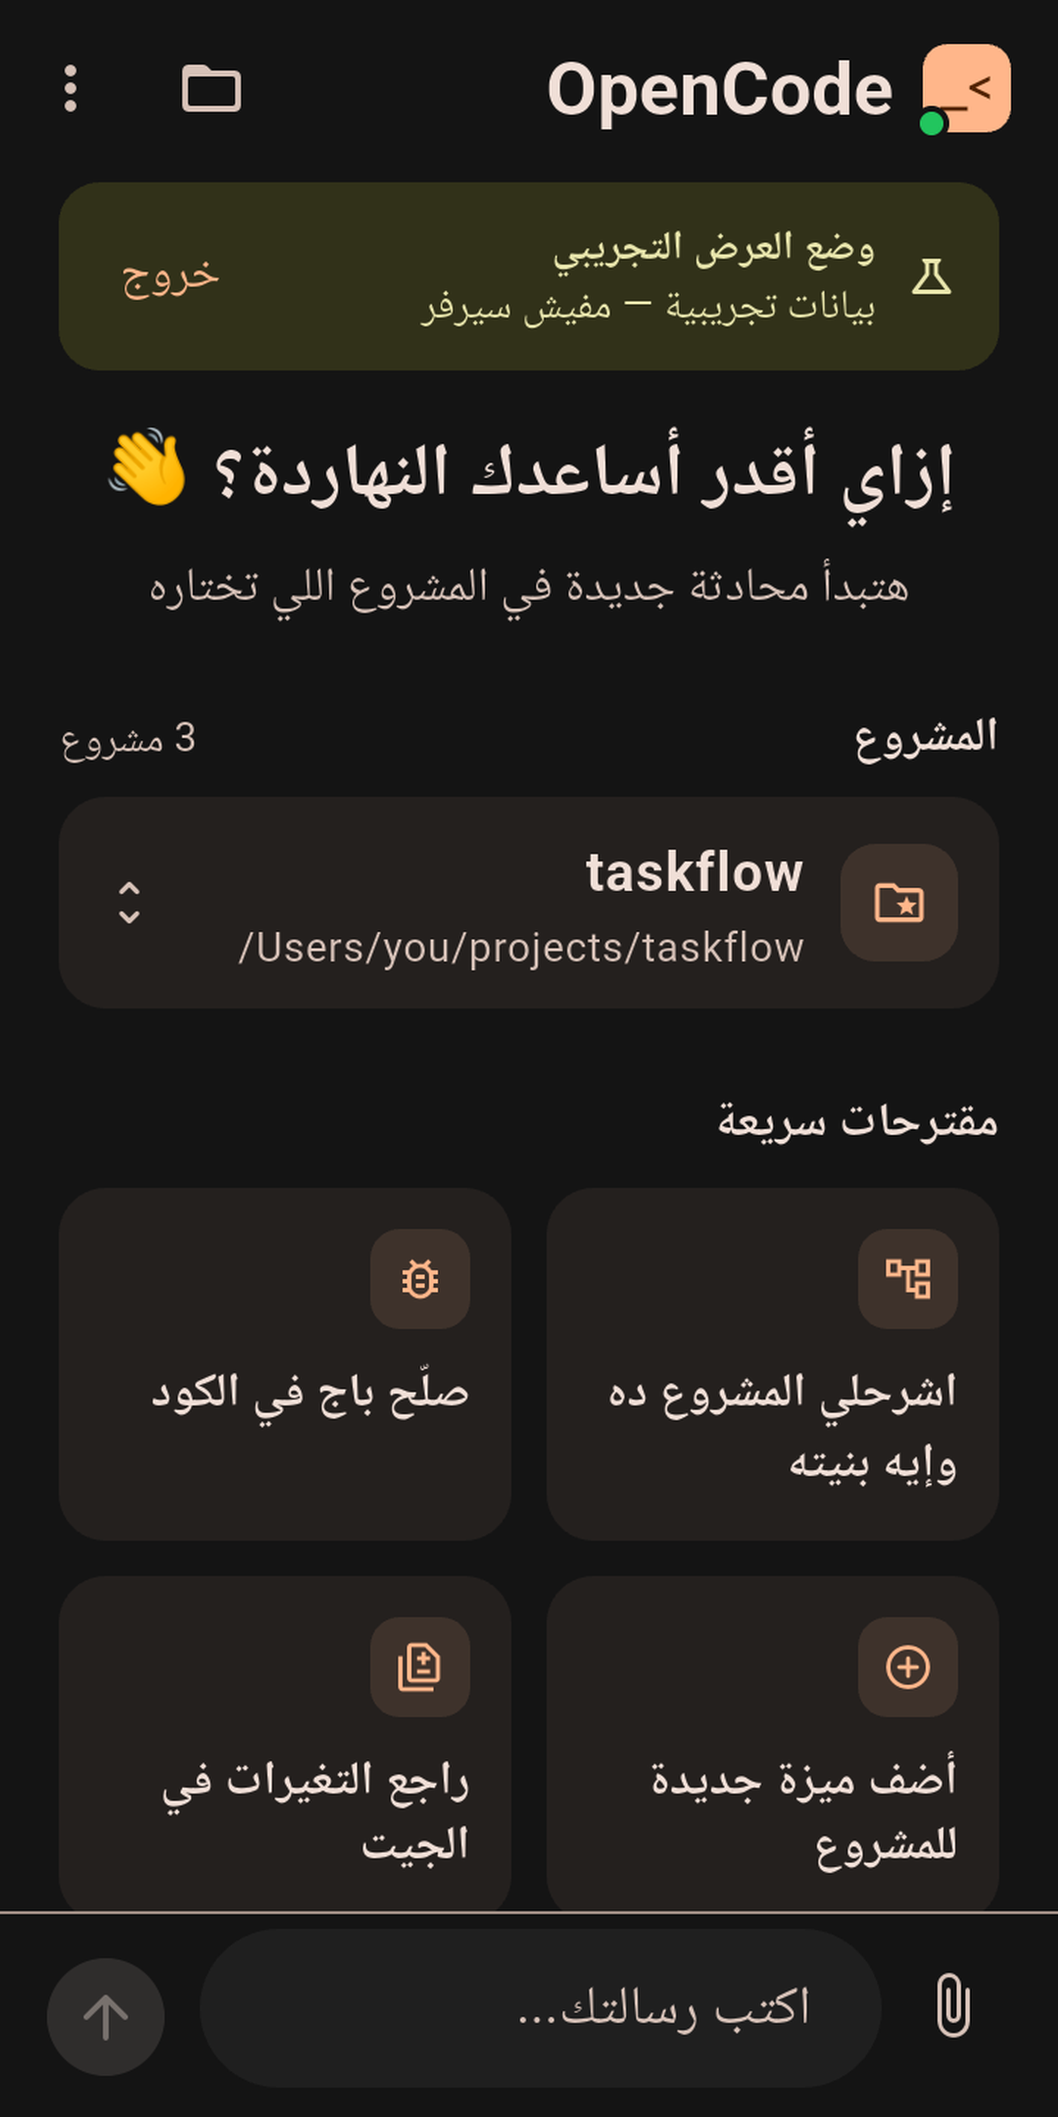
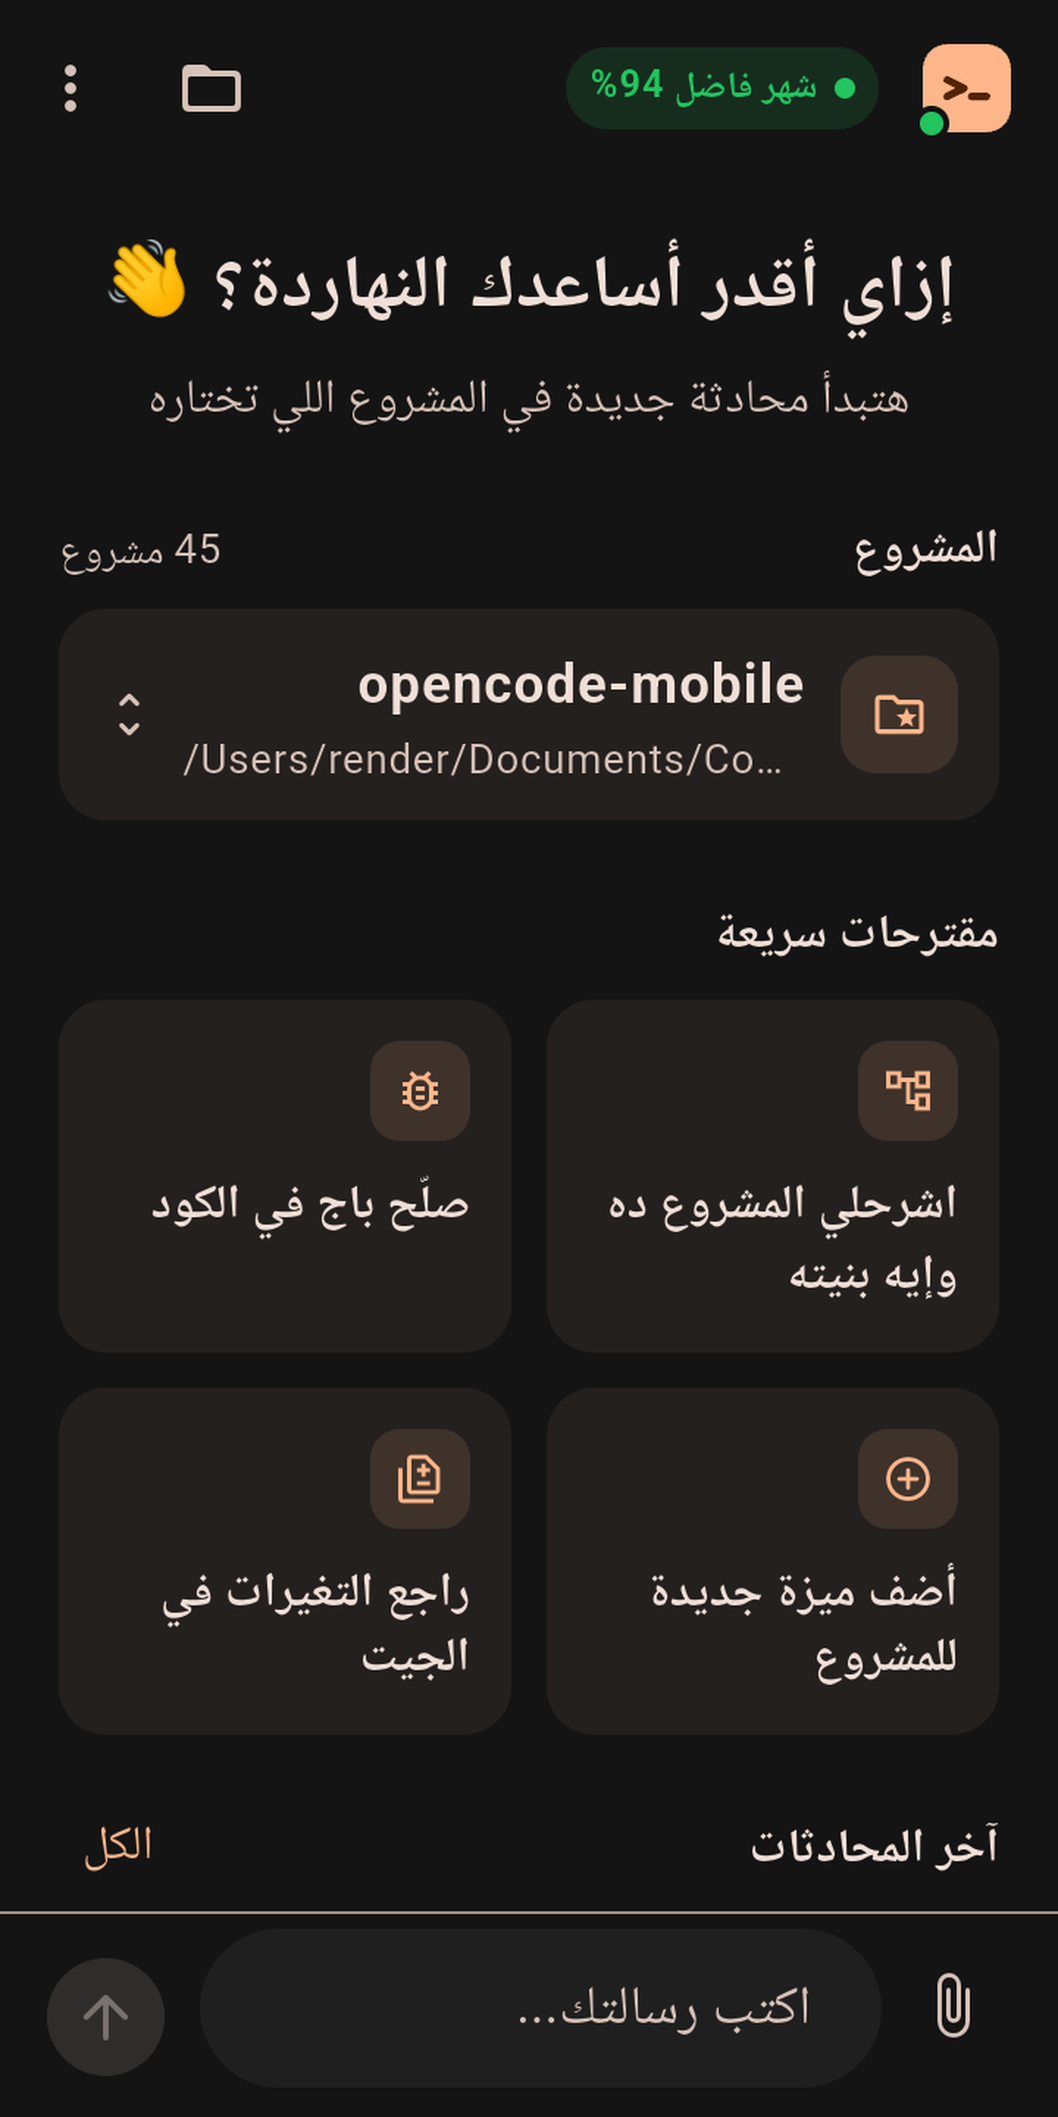
Store pack: listing copy, privacy policy, Play-ready screenshots
- docs/store-listing.md: title/short/long copy (AR+EN), category and contact
  details, plus the exact answers for App access, Data safety, content rating
  and the Android 14 foreground-service declaration.
- docs/privacy-policy.md: a policy that matches what the app actually does
  (local-only data, the optional opencode.ai quota call).
- store/screenshots: four 1080x2160 phone screenshots captured from the device
  (home with the quota chip, a live chat with tool cards, the quota/usage sheet,
  the pairing screen).

diff --git a/docs/store-listing.md b/docs/store-listing.md
@@ -1,0 +1,181 @@
+# بيانات المتجر — انسخ والصق
+
+كل النصوص دي جاهزة للصق في Google Play Console مباشرة. القيم اللي بين ⬅ تتغير.
+
+---
+
+## 1. اسم التطبيق (30 حرف كحد أقصى)
+
+```
+OpenCode Mobile
+```
+
+بدائل لو مش متاح: `OpenCode Mobile — unofficial` · `OpenCode for Mobile`
+
+## 2. الوصف القصير (80 حرف كحد أقصى)
+
+**عربي:**
+```
+عميل غير رسمي لسيرفر OpenCode: محادثاتك وردود الوكيل لحظيًا من موبايلك
+```
+(69 حرف)
+
+**English:**
+```
+Unofficial OpenCode client — your sessions and agent replies, live
+```
+(65 chars)
+
+## 3. الوصف الكامل (4000 حرف كحد أقصى)
+
+**عربي:**
+```
+OpenCode Mobile تطبيق غير رسمي بيوصّلك بسيرفر OpenCode اللي على جهازك، فتقدر
+تتابع شغل الوكيل من على تليفونك — بنفس الجلسات والردود اللي بتشوفها على الكمبيوتر.
+
+■ بيشتغل إزاي؟
+• سيرفر OpenCode بيشتغل على جهازك (ماك/لينكس/ويندوز) وبيعرّض API + أحداث لحظية.
+• من التطبيق: امسح كود QR واحد (`opencode pair`) وخلاص — مفيش حسابات ولا تسجيل.
+• بعد كده كل حاجة لحظية زي تطبيقات المحادثة: الرد بيتكتب كلمة كلمة، والتفكير
+  والأدوات بتظهر وانت شايف.
+
+■ المميزات
+• محادثاتك كلها (sessions) بعناوينها وتكلفتها والموديل المستخدم.
+• ردود متدفقة لحظيًا + التفكير قابل للطي.
+• كروت لكل أداة (read / edit / shell / browser…) بإدخالها ونتيجتها.
+• موافقة الصلاحيات من الموبايل: مرة / دايمًا / رفض.
+• إيقاف التنفيذ في أي لحظة، وإنشاء جلسة جديدة في أي مشروع.
+• اختيار الموديل والمشاريع، ومراجعة كل المحادثات بالمشاريع.
+• إشعارات في الخلفية لما الوكيل يطلب صلاحية أو يخلّص تنفيذ.
+• قياس الكوتة الشهرية (لخطط OpenCode Go): فاضل كام في الشهر/الأسبوع/آخر 5 ساعات.
+• استهلاكك المحلي: التكلفة والتوكنز.
+• وضع العرض: تجربة التطبيق بدون أي سيرفر (بيانات تجريبية).
+
+■ ملاحظات مهمة
+• التطبيق مش بيشغّل موديلات على الموبايل — هو واجهة لسيرفرك اللي على جهازك.
+• محتاج الكمبيوتر والموبايل على نفس الشبكة، أو Tailscale للاتصال من بره.
+• مشروع مجتمعي غير رسمي، مش مبني من فريق OpenCode وغير تابع لهم بأي شكل.
+  OpenCode نفسه مفتوح المصدر (MIT).
+
+■ الخصوصية
+مفيش حسابات ولا تتبّع ولا إعلانات. بياناتك بتفضل عندك: الردود والمحادثات على
+سيرفرك انت، والتطبيق بيخزّن على الجهاز عنوان السيرفر والتوكن (مشفّر) فقط.
+```
+
+**English:**
+```
+OpenCode Mobile is an unofficial client for the OpenCode server running on
+your own computer — so you can follow your agent from your phone, with the
+same sessions and replies you see on your desktop.
+
+■ HOW IT WORKS
+• OpenCode runs on your machine (macOS/Linux/Windows) and exposes an HTTP API
+  plus a live event stream.
+• In the app: scan one QR code from `opencode pair` — no account, no sign-up.
+• After that everything is live like a chat app: replies stream word by word,
+  with reasoning and tool calls shown as they happen.
+
+■ FEATURES
+• All your sessions with titles, cost and model.
+• Live streaming replies, collapsible reasoning.
+• A card per tool call (read / edit / shell / browser…) with input and output.
+• Approve permissions from your phone: once / always / reject.
+• Interrupt a run, start a new session in any project.
+• Model picker, project switcher, full history grouped by project.
+• Background notifications when the agent asks for permission or finishes.
+• Plan quota meter (OpenCode Go): what is left this month / week / 5 hours.
+• Local spend: cost and tokens.
+• Demo mode: try the app with sample data — no server needed.
+
+■ GOOD TO KNOW
+• The app does not run models on the phone; it drives the server on your own
+  machine.
+• Your computer and phone usually need the same network (Tailscale works from
+  anywhere).
+• Unofficial community project — not built by, or affiliated with, the
+  OpenCode team. OpenCode itself is open source (MIT).
+
+■ PRIVACY
+No accounts, no tracking, no ads. Your data stays with you: conversations live
+on your own server, and the app stores only the server address and its pairing
+token (encrypted) on the device.
+```
+
+## 4. تصنيف ومعلومات أساسية
+
+| الحقل | القيمة |
+|---|---|
+| الفئة | `Developer tools` |
+| وسوم | `developer tools` · `productivity` |
+| البريد الإلكتروني | ⬅ `support@globalweb.solutions` (أو إيميلك) |
+| الموقع | `https://Globalweb.Solutions` |
+| سياسة الخصوصية | ⬅ `https://Globalweb.Solutions/privacy` (استخدم `docs/privacy-policy.md`) |
+| إعلانات | **لا** |
+| مشتريات داخل التطبيق | **لا** |
+| مجاني / مدفوع | **مجاني** |
+| الجمهور المستهدف | 18+ (أداة مطوّرين) |
+| التطبيق يحتوي على محتوى مخصّص للأطفال؟ | لا |
+
+## 5. App access (مهم — بيتوقف عليها القبول)
+
+اختار **"All functionality is available without special access"** واكتب في
+الملاحظات (Review instructions):
+
+```
+The app is a client for an OpenCode server that normally runs on the
+reviewer's own computer. No server is required to review it:
+
+1. Install and open the app.
+2. On the pairing screen tap "جرّب من غير سيرفر — وضع العرض" /
+   "Try it without a server — demo mode".
+3. The app opens with sample projects, conversations, a streamed agent reply,
+   tool cards and a pending permission request.
+
+To test the real flow: install OpenCode on a computer
+(curl -fsSL https://opencode.ai/install | bash), run
+`opencode service set hostname 0.0.0.0` and
+`opencode pair --url http://<computer-LAN-IP>:<PORT>`, then scan the QR from
+the app (or paste the printed link).
+```
+
+## 6. Data safety (أمان البيانات)
+
+| السؤال | الإجابة |
+|---|---|
+| Does your app collect or share any of the required user data types? | **No** |
+| Is all of the user data collected by your app encrypted in transit? | ⬅ **No*** |
+| Do you provide a way for users to request that their data is deleted? | **Yes** — الإعدادات → حذف السيرفر (أو مسح بيانات التطبيق) |
+
+\* بصراحة: التطبيق بيتكلم مع سيرفر المستخدم على الشبكة المحلية عن طريق HTTP
+عادي (زي ما سيرفر OpenCode بيعمل). لو حطيت `Yes` هتسألك عن طريقة التشفير —
+اختار `No` واشرح في الوصف إن التشفير متاح عبر Tailscale.
+
+## 7. Content rating questionnaire
+
+- Category: **Utility / Productivity / Developer tools**
+- Violence / Sexuality / Language / Controlled substances: **No** لكل الأسئلة
+- Does the app share user location? **No**
+- Does the app allow users to interact/exchange content?
+  **Yes** — لكن المحتوى بيتبادل مع سيرفر المستخدم نفسه (مش شبكة عامة).
+
+## 8. Foreground service declaration (إجباري من أندرويد 14)
+
+النوعين المستخدمين: **dataSync** + **remoteMessaging**
+
+```
+The app keeps a direct connection to the user's own OpenCode server so it can
+raise notifications when the agent needs a permission decision or finishes a
+run while the app is in the background. The service does not upload anything:
+it only holds the SSE connection to the address the user paired, and it is
+started/stopped by an in-app switch.
+```
+
+## 9. متطلبات قبل الرفع
+
+- [ ] مفتاح التوقيع (`bash tools/make_upload_keystore.sh`) — من غيره **مش هينفع ترفع**
+- [ ] `flutter build appbundle --release`
+- [ ] رفع `build/app/outputs/bundle/release/app-release.aab`
+- [ ] 3 صور شاشات على الأقل من `store/screenshots/store_*.png` (المقاس 1080×2160 ✓)
+- [ ] أيقونة المتجر `store/play_icon_512.png` + الرسم الترويجي `store/feature_graphic_1024x500.png`
+- [ ] نشر سياسة الخصوصية + وضع اللينك
+- [ ] زوّد `version: 1.0.0+1` → `+2` مع كل رفعة

diff --git a/docs/privacy-policy.md b/docs/privacy-policy.md
@@ -1,0 +1,116 @@
+# سياسة الخصوصية — OpenCode Mobile
+
+**آخر تحديث:** أكتوبر 2026
+**المطوّر:** Global Web Solutions — https://Globalweb.Solutions
+
+> انشر النص ده على `https://Globalweb.Solutions/privacy` (أو أي عنوان دائم)،
+> وحط اللينك في Google Play Console → Store listing → Privacy policy.
+
+---
+
+## بالعربي
+
+### الخلاصة
+OpenCode Mobile تطبيق **غير رسمي** بيوصّل موبايلك بسيرفر OpenCode اللي انت
+مشغّله على جهازك. **مفيش عندنا سيرفرات، ولا حسابات، ولا تتبّع، ولا إعلانات**،
+وإحنا مش بنجمع أي بيانات عنك.
+
+### البيانات اللي بتتخزن على جهازك
+- **عنوان سيرفر OpenCode** بتاعك + **توكن التوصيل (pairing token)** — في تخزين
+  مشفّر على الجهاز (`flutter_secure_storage`: Keystore على أندرويد، Keychain على
+  iOS). التوكن ده بيتولد لما انت بتعمل pairing وبيستخدم للمصادقة مع سيرفرك بس.
+- **تفضيلات التطبيق**: اللغة والمظهر.
+- **إعدادات الإشعارات**: عنوان وتوكن السيرفر (افتراضيًا بيبقى نص عادي في مساحة
+  التطبيق الخاصة، عشان خدمة الخلفية تقراها).
+- **صور مرفقة**: بتتبعت لسيرفرك وتُخزَّن عنده (في مكان سيرفرك)، مش عندنا.
+
+مفيش أي بيانات بتترسل لـ Global Web Solutions. إحنا مش بنشوف سيرفرك ولا محتواه.
+
+### البيانات اللي بتخرج من الجهاز
+| الوجهة | إيه اللي بيتبعت | إمتى |
+|---|---|---|
+| **سيرفر OpenCode بتاعك** (على شبكتك) | رسائلك، طلبات الموافقة، أوامر التنفيذ، الصور اللي بترفقها | طول ما انت بتستخدم التطبيق |
+| **opencode.ai** (اختياري) | توكن حساب OpenCode المسجّل على سيرفرك، لقراءة كوتة خطتك | بس لما تفتح كارت «الكوتة» — ومفيش أي بيانات محادثات |
+
+- الاتصال بسيرفرك بيحصل عن طريق HTTP على الشبكة المحلية (زي ما سيرفر
+  OpenCode نفسه بيشتغل). لو عايز تشفير كامل استخدم
+  [Tailscale](https://tailscale.com) ووصّل التطبيق على عنوان الـ Tailscale.
+- إحنا مش بنستخدم أي خدمة تحليلات أو تتبّع أو إعلانات.
+
+### الصلاحيات وليه
+| الصلاحية | السبب |
+|---|---|
+| الإنترنت | الاتصال بسيرفر OpenCode بتاعك |
+| الكاميرا | مسح كود الـ QR للمرة الواحدة، وإرفاق صور من الكاميرا |
+| الصور | إرفاق صورة في رسالة |
+| الإشعارات | تنبيهك لما الوكيل يطلب موافقة أو يخلّص تنفيذ |
+| خدمة في الخلفية | تفضل متوصل بالسيرفر وانت بره التطبيق (تقدر تقفلها من الإعدادات) |
+| منع النوم / Vibate | الحفاظ على الاتصال وتنبيهك |
+
+### الأطفال
+التطبيق أداة مطوّرين ومش مخصّص للأطفال (18+)، ومش بنجمع أي بيانات من أي حد.
+
+### حذف بياناتك
+- **على التطبيق**: الإعدادات → حذف السيرفر (يمسح التوكن والعنوان)، أو امسح
+  بيانات التطبيق من إعدادات النظام.
+- **على الكمبيوتر**: المحادثات محفوظة عند سيرفر OpenCode بتاعك — امسحها من هناك
+  (`opencode session` أو من مجلد بيانات OpenCode).
+- مفيش بيانات عندنا عشان نمسحها (إحنا مش بنخزّن حاجة).
+
+### تغييرات
+أي تحديث للسياسة هيتنشر على نفس اللينك مع تاريخ جديد.
+
+### تواصل
+support@globalweb.solutions · https://Globalweb.Solutions
+
+---
+
+## English
+
+### In short
+OpenCode Mobile is an **unofficial** client that connects your phone to the
+OpenCode server **you** run on your own computer. There are **no servers of
+ours, no accounts, no tracking and no ads**, and we do not collect any data
+about you.
+
+### Stored on your device
+- Your **OpenCode server address** and its **pairing token**, kept in encrypted
+  storage (Android Keystore / iOS Keychain). The token authorises requests to
+  *your* server only.
+- App preferences (language, theme).
+- Notification settings: your server address and token (plain, in the app's
+  private support directory, so the background service can read them).
+- Attached images: uploaded to *your* server and stored there.
+
+Nothing is sent to Global Web Solutions. We cannot see your server or its
+contents.
+
+### Leaving the device
+| Destination | What | When |
+|---|---|---|
+| **Your OpenCode server** (on your network) | your messages, permission replies, run commands, attached images | while you use the app |
+| **opencode.ai** (optional) | the OpenCode account token held by your server, to read your plan quota | only when you open the quota card — never conversations |
+
+Traffic to your server uses plain HTTP on your local network, exactly as the
+OpenCode server itself works; use [Tailscale](https://tailscale.com) for full
+encryption. We use no analytics, tracking or advertising services.
+
+### Permissions
+Internet (reach your server) · Camera (pairing QR, camera attachments) ·
+Photos (attachments) · Notifications (permission requests, finished runs) ·
+Foreground service (stay connected while backgrounded — switchable off in
+Settings) · Wake lock / vibrate (keep the connection alive, alert you).
+
+### Children
+A developer tool, not aimed at children (18+). We collect nothing from anyone.
+
+### Deleting your data
+Remove the server in Settings → delete server, or clear the app's data. Your
+conversations live on your own OpenCode server — delete them there. We hold no
+data to delete.
+
+### Changes
+Updates are published at the same URL with a new date.
+
+### Contact
+support@globalweb.solutions · https://Globalweb.Solutions
